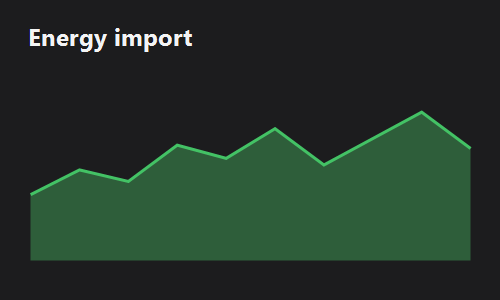
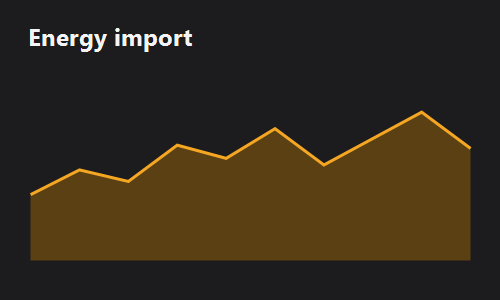
style(widget): amber/orange palette for the import chart
Switch the area fill/line from green to amber (#fce3bd / #f59e0b) and update
the preview thumbnails to match. Refs #8.

diff --git a/widgets/energy-import/public/index.html b/widgets/energy-import/public/index.html
@@ -86,8 +86,8 @@
         '<text class="axis" x="' + (L - 4) + '" y="' + (gy0 + 3) + '" text-anchor="end">0</text>',
         '<text class="axis" x="' + (L - 4) + '" y="' + (gy1 + 3) + '" text-anchor="end">' + fmt(ymax / 2) + '</text>',
         '<text class="axis" x="' + (L - 4) + '" y="' + (gy2 + 3) + '" text-anchor="end">' + fmt(ymax) + '</text>',
-        '<path d="' + area + '" fill="#bfe6c9" fill-opacity="0.7"/>',
-        '<path d="' + line + '" fill="none" stroke="#34a853" stroke-width="2" stroke-linejoin="round" stroke-linecap="round"/>',
+        '<path d="' + area + '" fill="#fce3bd" fill-opacity="0.75"/>',
+        '<path d="' + line + '" fill="none" stroke="#f59e0b" stroke-width="2" stroke-linejoin="round" stroke-linecap="round"/>',
         '<text class="axis" x="' + x(0) + '" y="' + (H - 8) + '" text-anchor="start">' + shortDate(days[0].date) + '</text>',
         '<text class="axis" x="' + x(midIdx) + '" y="' + (H - 8) + '" text-anchor="middle">' + shortDate(days[midIdx].date) + '</text>',
         '<text class="axis" x="' + x(lastIdx) + '" y="' + (H - 8) + '" text-anchor="end">' + shortDate(days[lastIdx].date) + '</text>',
